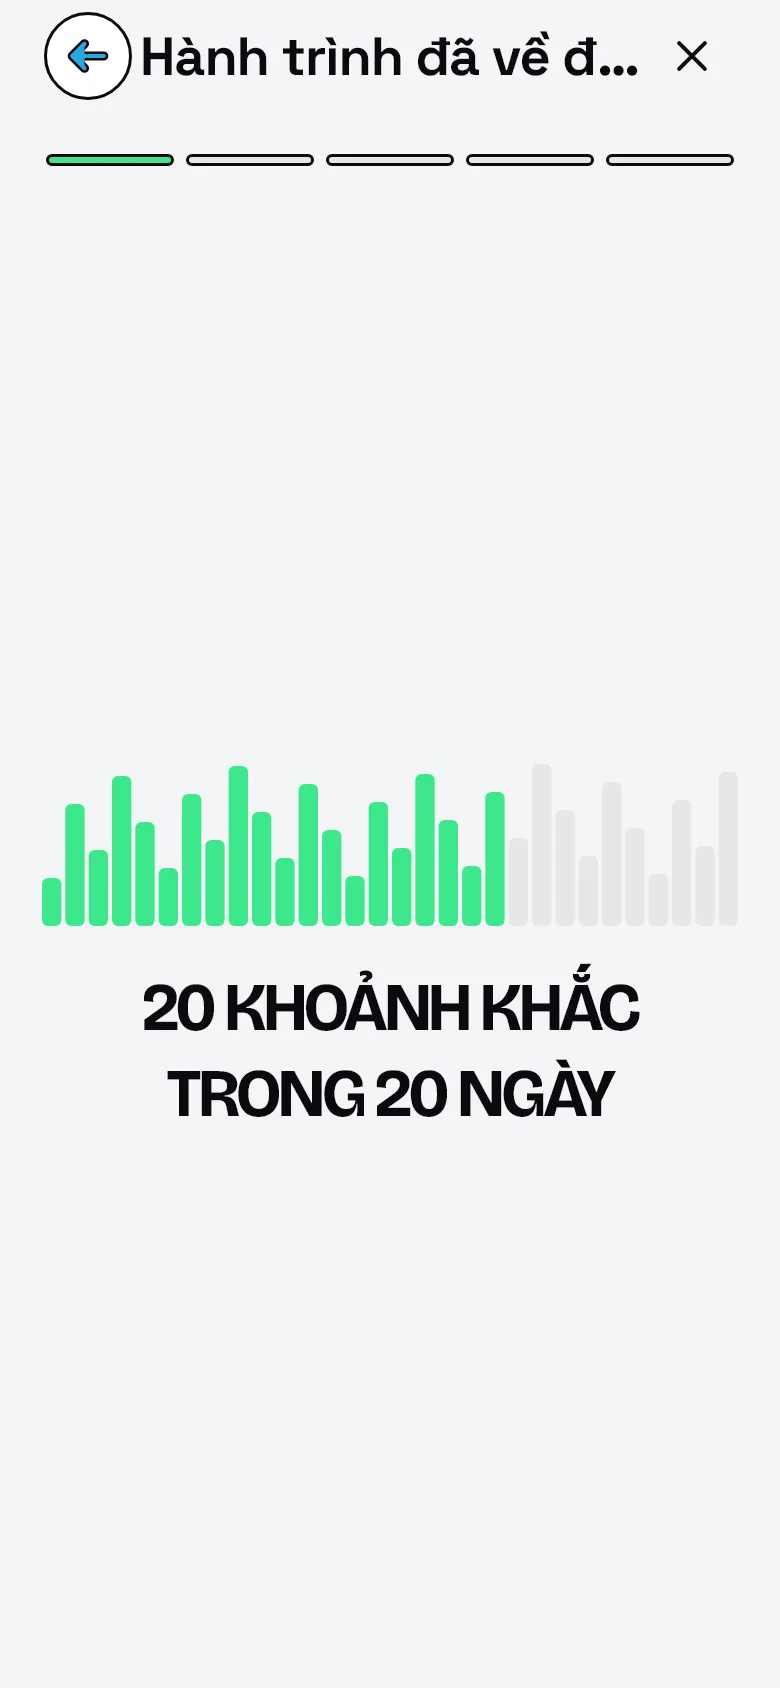
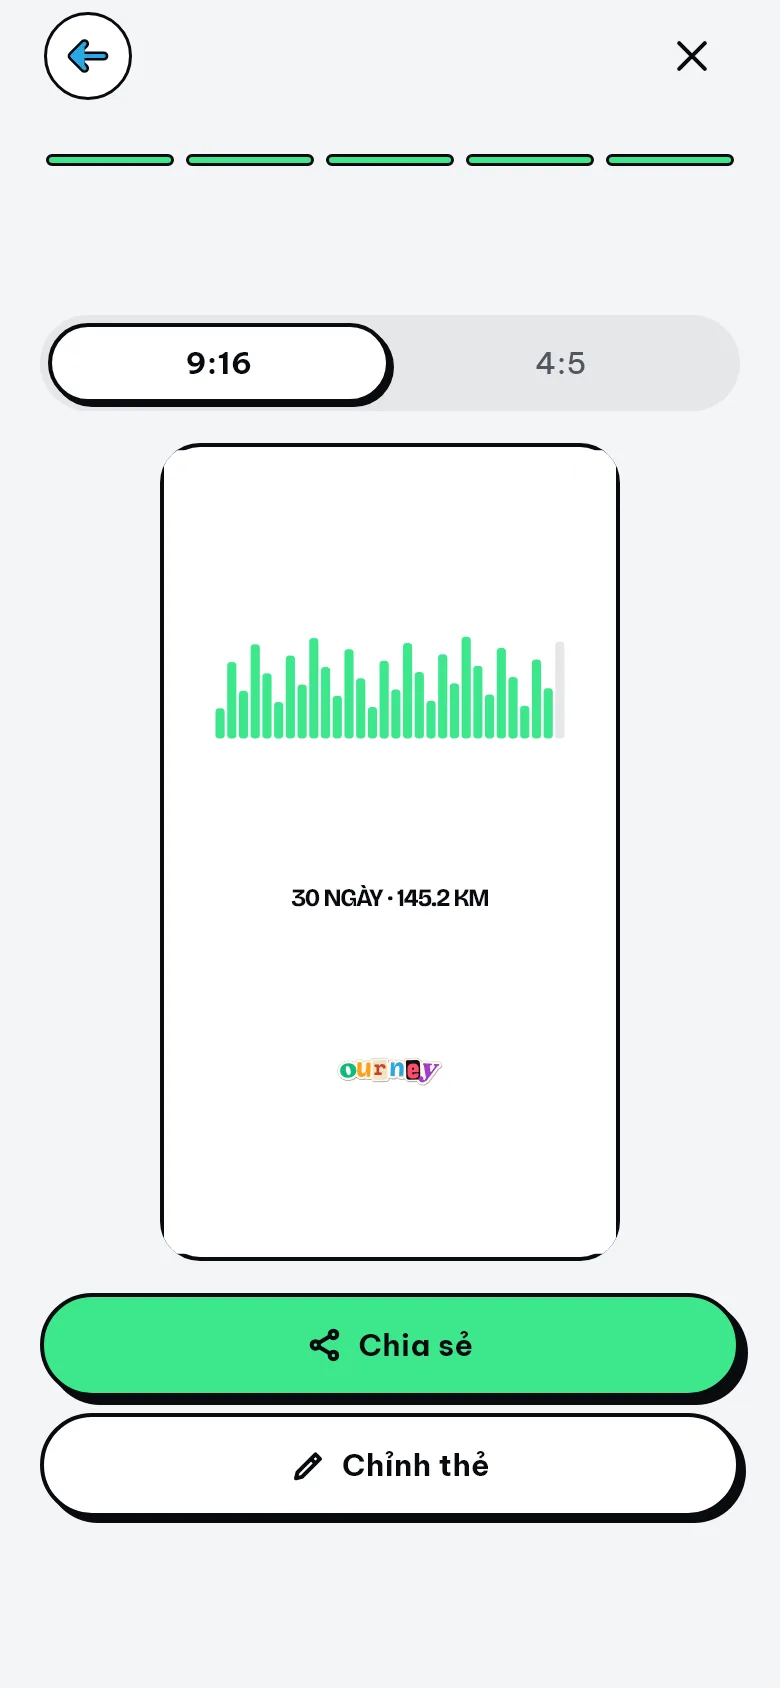
feat(landing): re-shoot run, trip and wrapped shots with one dataset (#150)
* feat(landing): re-shoot run, trip, minimal and wrapped shots with one sample dataset

* fix(landing): refresh travel posters with unexposed final frames

---------

diff --git a/apps/landing/main.js b/apps/landing/main.js
@@ -47,9 +47,9 @@
       hcc_t0: 'IELTS 7.5 · Ngày 21/30',
       hcc_b0: '21 ngày đã chụp',
       hcc_t1: 'Chạy sáng · 5,4 km',
-      hcc_b1: '20/30 buổi',
-      hcc_t2: 'Đà Lạt 7\u00A0ngày · Khung 14/24',
-      hcc_b2: 'cả nhóm đã chụp',
+      hcc_b1: '20 buổi chạy',
+      hcc_t2: 'Đà Lạt 7\u00A0ngày · Khung 3/24',
+      hcc_b2: 'đã lưu 3 khoảnh khắc',
       hero_h1: 'Góp tấm hình, giữ nhịp mình',
       hero_lede: 'Nhật ký ảnh cho việc bạn muốn làm đều như học tiếng Anh, chạy bộ, giảm cân, một chuyến đi hay vài trang sách mỗi tối. Tự lưu cho riêng mình hoặc rủ hội bạn cùng chụp.',
       hero_cta_primary: 'Tải APK / Chờ iOS',
@@ -97,7 +97,7 @@
       how_s2_alt: 'Màn hình camera: Đọc 10 trang · Ngày 24 và nút chụp ở giữa thanh dưới',
       how_s3_t: 'Lưu lại xem dần, chia sẻ lúc nào tùy bạn',
       how_s3_d: 'Ảnh chụp mỗi ngày tự xếp vào dòng thời gian của mục tiêu đó. Khi muốn khoe với bạn bè, bạn có thể xuất thẻ ảnh 9:16 hoặc 4:5 kèm số liệu tự chọn.',
-      how_s3_alt: 'Thẻ chia sẻ Story của mục Chạy sáng: 4,6 km, ngày 21',
+      how_s3_alt: 'Thẻ chia sẻ Story của mục Chạy sáng: 5,4 km, ngày 21',
       squad_eyebrow: 'đi cùng nhóm',
       squad_h2: 'Một mình dễ quên, có hội nhắc nhau thì nhớ',
       squad_subline: 'Một mình thong thả, có hội rôm rả',
@@ -118,7 +118,7 @@
       finish_tick_2: 'Hiện tổng số ngày đã chụp và cột mốc đạt được',
       finish_tick_3: 'Ẩn bất kỳ con số nhạy cảm nào trước khi xuất',
       finish_a_alt: 'Poster chuyến đi Đà Lạt 7 ngày với cuộn phim các ngày',
-      finish_b_alt: 'Tổng kết Chạy sáng với biểu đồ hoạt động và 20 khoảnh khắc trong 20 ngày',
+      finish_b_alt: 'Thẻ tổng kết Chạy sáng: hành trình 30 ngày, tổng quãng đường 145,2 km',
       priv_eyebrow: 'riêng tư & trên máy',
       priv_h2: 'Có những mục tiêu chỉ cần lưu cho riêng mình',
       priv_desc: 'Bạn chọn quyền xem riêng cho từng mục tiêu. Với mục theo dõi cân nặng, số kg luôn được che thành dấu chấm, nhấn giữ nút bên dưới để xem thử.',
@@ -235,9 +235,9 @@
       hcc_t0: 'IELTS 7.5 · Day 21/30',
       hcc_b0: '21 days logged',
       hcc_t1: 'Morning Run · 5.4 km',
-      hcc_b1: '20/30 sessions',
-      hcc_t2: 'Da Lat 7\u00A0Days · Frame 14/24',
-      hcc_b2: 'all 5 checked in',
+      hcc_b1: '20 runs',
+      hcc_t2: 'Da Lat 7\u00A0Days · Frame 3/24',
+      hcc_b2: '3 moments saved',
       hero_h1: 'One photo at a time, at your own pace',
       hero_lede: 'A photo diary for what you want to keep up, from language study, running, and body goals to a trip or ten pages of reading. Keep it private or check in with close friends.',
       hero_cta_primary: 'Android APK / iOS waitlist',
@@ -285,7 +285,7 @@
       how_s2_alt: 'Live camera screen: Read 10 Pages · Day 24 and center dock shutter',
       how_s3_t: 'Look back anytime, share only when you want',
       how_s3_d: 'Each check-in photo lands on your timeline automatically. Whenever you want to share, export a 9:16 Story or 4:5 card with only the stats you pick.',
-      how_s3_alt: 'Story share card for Morning Run: 4.6 km, Day 21',
+      how_s3_alt: 'Story share card for Morning Run: 5.4 km, Day 21',
       squad_eyebrow: 'with close friends',
       squad_h2: 'Easy to forget alone, easier when friends check in together',
       squad_subline: 'Easy on your own, louder with friends.',
@@ -306,7 +306,7 @@
       finish_tick_2: 'Show total days logged and milestones reached',
       finish_tick_3: 'Hide any sensitive metric before exporting',
       finish_a_alt: 'Da Lat 7-day trip poster with 35mm film strip frames',
-      finish_b_alt: 'Morning Run recap with an activity chart and 20 moments in 20 days',
+      finish_b_alt: 'Morning Run recap card: a 30-day journey covering 145.2 km',
       priv_eyebrow: 'privacy & local-first',
       priv_h2: 'Some goals are meant for your eyes only',
       priv_desc: 'Set visibility separately for each goal. On body and weight logs, exact numbers stay masked behind dots until you press and hold below.',
@@ -494,7 +494,7 @@
 
   const HERO_CYCLES = [
     { streak: '21', fire: '4', clap: '3' },
-    { streak: '20', fire: '6', clap: '2' },
+    { streak: '11', fire: '6', clap: '2' },
     { streak: '7',  fire: '5', clap: '4' }
   ];
 

diff --git a/apps/landing/index.html b/apps/landing/index.html
@@ -678,7 +678,7 @@
               <figure class="phone phone-step">
                 <picture class="theme-pic">
                   <source class="src-dark" srcset="/assets/screens/share-run-dark.webp" media="(prefers-color-scheme: dark)">
-                  <img class="scr-img" src="/assets/screens/share-run.webp" alt="Thẻ chia sẻ Story của mục Chạy sáng: 4,6 km, ngày 21" data-i18n-alt="how_s3_alt" loading="lazy" decoding="async" width="390" height="844">
+                  <img class="scr-img" src="/assets/screens/share-run.webp" alt="Thẻ chia sẻ Story của mục Chạy sáng: 5,4 km, ngày 21" data-i18n-alt="how_s3_alt" loading="lazy" decoding="async" width="390" height="844">
                 </picture>
               </figure>
             </li>
@@ -697,7 +697,7 @@
             </picture>
             <picture class="swap theme-pic" data-scr="2">
               <source class="src-dark" srcset="/assets/screens/share-run-dark.webp" media="(prefers-color-scheme: dark)">
-              <img class="scr-img" src="/assets/screens/share-run.webp" alt="Thẻ chia sẻ Story của mục Chạy sáng: 4,6 km, ngày 21" data-i18n-alt="how_s3_alt" loading="lazy" decoding="async" width="390" height="844">
+              <img class="scr-img" src="/assets/screens/share-run.webp" alt="Thẻ chia sẻ Story của mục Chạy sáng: 5,4 km, ngày 21" data-i18n-alt="how_s3_alt" loading="lazy" decoding="async" width="390" height="844">
             </picture>
           </div>
         </div>
@@ -825,7 +825,7 @@
           <figure class="phone phone-b">
             <picture class="theme-pic">
               <source class="src-dark" srcset="/assets/screens/wrapped-run-dark.webp" media="(prefers-color-scheme: dark)">
-              <img class="scr-img" src="/assets/screens/wrapped-run.webp" alt="Tổng kết Chạy sáng với biểu đồ hoạt động và 20 khoảnh khắc trong 20 ngày" data-i18n-alt="finish_b_alt" loading="lazy" decoding="async" width="390" height="844">
+              <img class="scr-img" src="/assets/screens/wrapped-run.webp" alt="Thẻ tổng kết Chạy sáng: hành trình 30 ngày, tổng quãng đường 145,2 km" data-i18n-alt="finish_b_alt" loading="lazy" decoding="async" width="390" height="844">
             </picture>
           </figure>
         </div>
